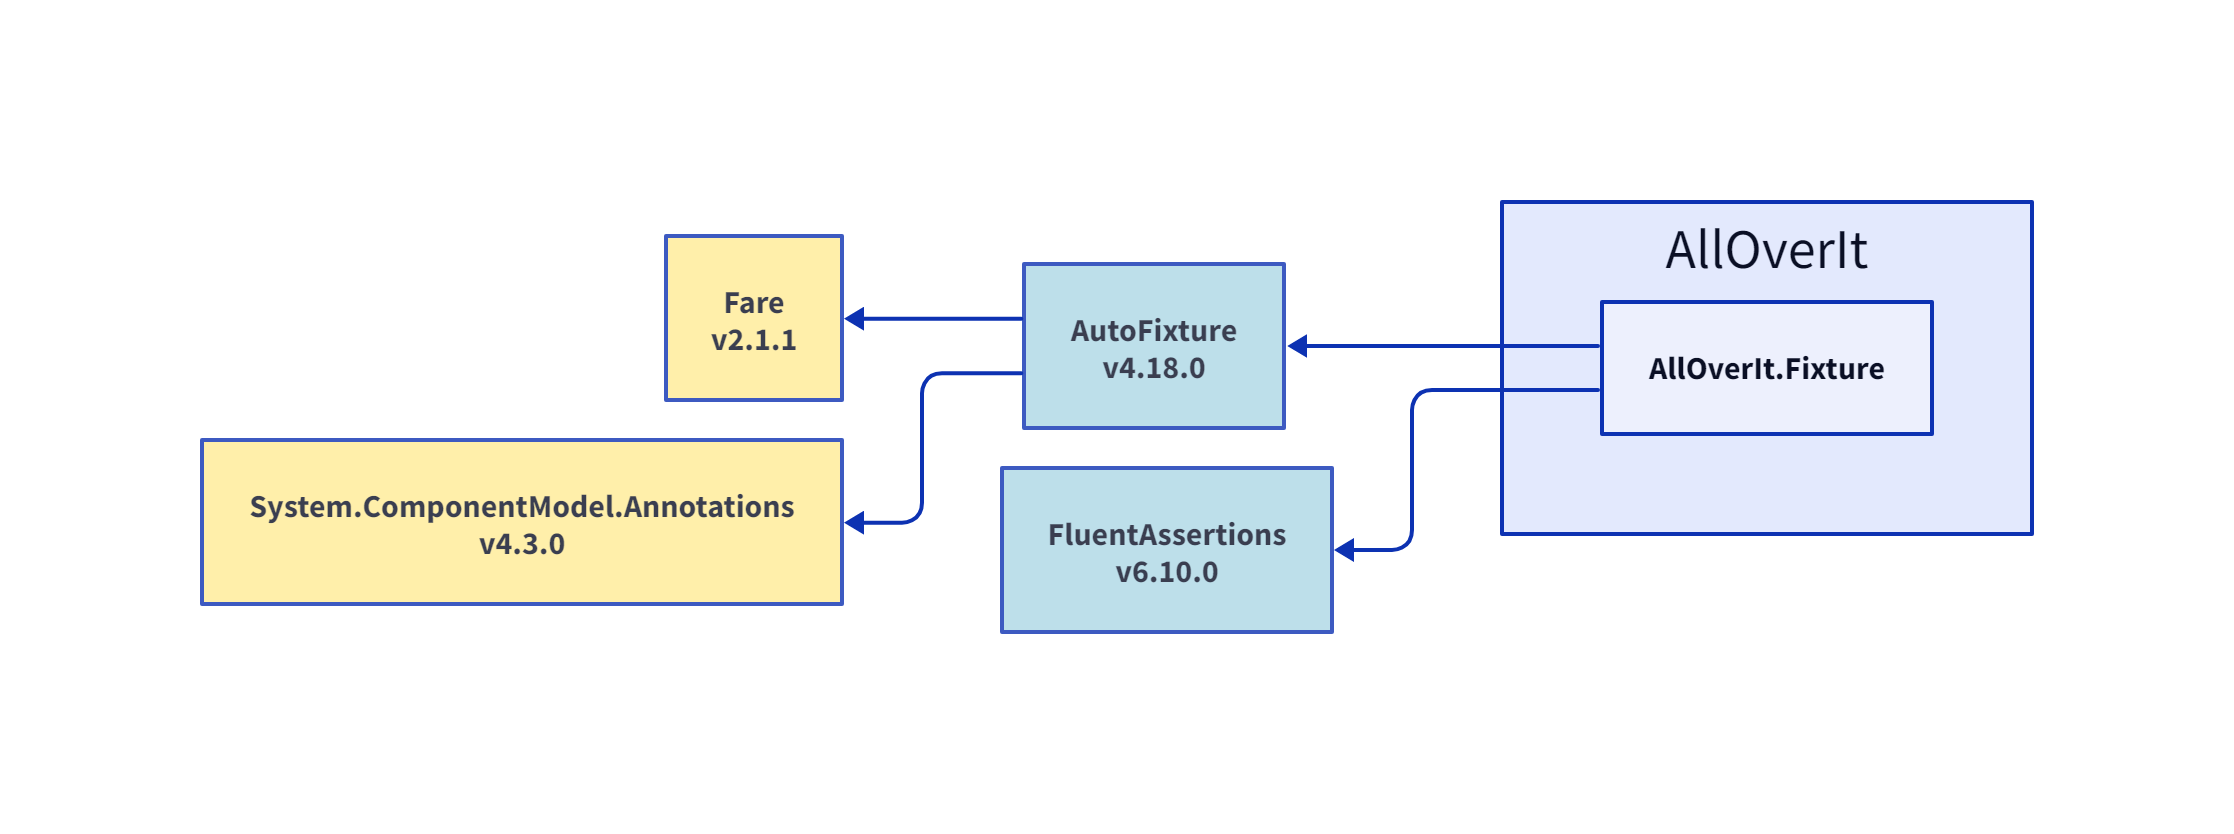
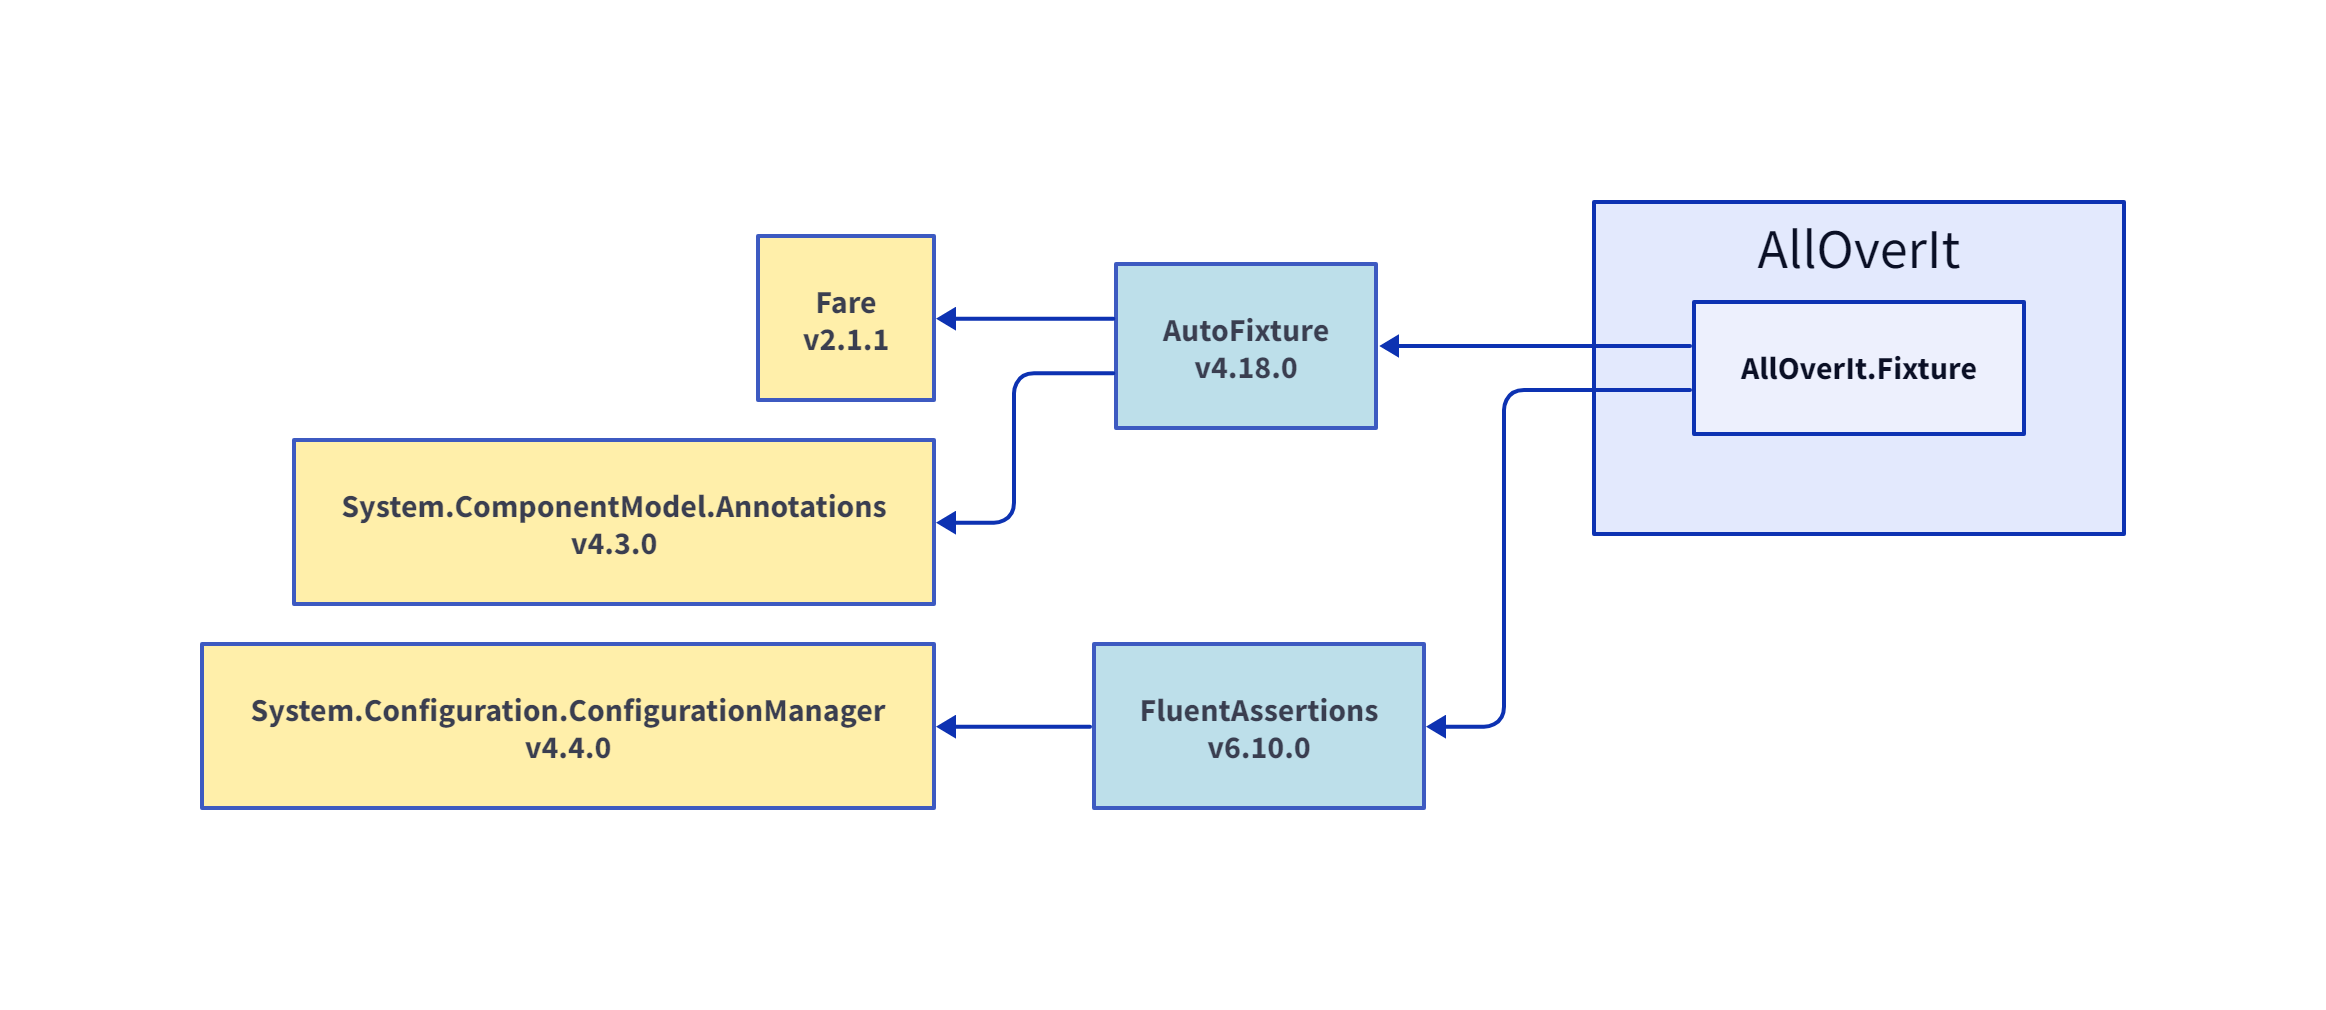
Dependency diagram updates

Changed region(s): [[0.0618, 0.1871, 0.9266, 0.8106]]

diff --git a/Utils/AllOverItDependencyDiagram/Parser/NugetPackageReferencesResolver.cs b/Utils/AllOverItDependencyDiagram/Parser/NugetPackageReferencesResolver.cs
@@ -1,4 +1,5 @@
-using AllOverIt.Extensions;
+using AllOverIt.Assertion;
+using AllOverIt.Extensions;
 using Flurl.Http;
 using System;
 using System.Collections.Generic;
@@ -10,6 +11,16 @@ namespace AllOverItDependencyDiagram.Parser
 {
     internal sealed class NugetPackageReferencesResolver
     {
+        public static readonly string[] TargetFrameworkOrderPreference = new[]
+        {
+            "net7.0",
+            "net6.0",
+            "net5.0",
+            ".netcoreapp3.1",
+            ".netstandard2.1",
+            ".netstandard2.0"
+        };
+
         private readonly IDictionary<(string, string), IEnumerable<PackageReference>> _nugetCache = new Dictionary<(string, string), IEnumerable<PackageReference>>();
         private readonly int _maxDepth;
 
@@ -18,12 +29,12 @@ namespace AllOverItDependencyDiagram.Parser
             _maxDepth = maxDepth;
         }
 
-        public Task<IReadOnlyCollection<PackageReference>> GetPackageReferences(string packageName, string packageVersion)
+        public Task<IReadOnlyCollection<PackageReference>> GetPackageReferences(string packageName, string packageVersion, string targetFramework)
         {
-            return GetPackageReferencesRecursively(packageName, packageVersion, 1);
+            return GetPackageReferencesRecursively(packageName, packageVersion, 1, targetFramework);
         }
 
-        private async Task<IReadOnlyCollection<PackageReference>> GetPackageReferencesRecursively(string packageName, string packageVersion, int depth)
+        private async Task<IReadOnlyCollection<PackageReference>> GetPackageReferencesRecursively(string packageName, string packageVersion, int depth, string targetFramework)
         {
             if (depth > _maxDepth)
             {
@@ -57,18 +68,20 @@ namespace AllOverItDependencyDiagram.Parser
 
                 if (dependenciesByFramework.Any())
                 {
+                    var useTarget = UseTargetFramework(dependenciesByFramework.Keys);
+
+                    var dependencies = dependenciesByFramework
+                        .Single(kvp => useTarget.Equals(kvp.Key, StringComparison.OrdinalIgnoreCase))
+                        .Value;
+
                     var packageReferencesList = new List<PackageReference>();
 
-                    // =====
-                    // take the last for now - until everything is actually grouped (or constrained) by the target framework
-                    // =====
-
-                    foreach (var dependency in dependenciesByFramework.Last().Value)
+                    foreach (var dependency in dependencies)
                     {
                         var dependencyName = dependency.Id;
                         var dependencyVersion = GetAssumedVersion(dependency.Version);
 
-                        var transitiveReferences = await GetPackageReferencesRecursively(dependencyName, dependencyVersion, depth + 1);
+                        var transitiveReferences = await GetPackageReferencesRecursively(dependencyName, dependencyVersion, depth + 1, targetFramework);
 
                         var packageReference = new PackageReference(true, depth)
                         {
@@ -98,6 +111,19 @@ namespace AllOverItDependencyDiagram.Parser
             }
 
             return packageVersion;
+        }
+
+        private static string UseTargetFramework(IEnumerable<string> targetFrameworks)
+        {
+            // Processing like this to ensure the list is provided in the order of TargetFrameworks.Descending
+            var availableTargets = targetFrameworks.Select(key => key.ToLowerInvariant());
+            availableTargets = TargetFrameworkOrderPreference.Intersect(availableTargets);
+
+            var useTarget = availableTargets.FirstOrDefault();
+
+            Throw<InvalidOperationException>.WhenNull(useTarget, $"Cannot find usable targetFramework from {string.Join(", ", targetFrameworks)}");
+
+            return useTarget;
         }
     }
 }

diff --git a/Source/AllOverIt/Logging/ColorConsoleLogger.cs b/Source/AllOverIt/Logging/ColorConsoleLogger.cs
@@ -4,9 +4,9 @@ using System.Linq;
 using System.Text;
 using System.Text.RegularExpressions;
 
-namespace AllOverItDependencyDiagram.Logging
+namespace AllOverIt.Logging
 {
-    internal class DependencyGeneratorLogger : IDependencyGeneratorLogger
+    public sealed class ColorConsoleLogger : IColorConsoleLogger
     {
         private const string ForegroundPrefix = "fore";
         private const string BackgroundPrefix = "back";
@@ -34,48 +34,55 @@ namespace AllOverItDependencyDiagram.Logging
 
         private readonly StringBuilder _stringBuilder = new();
 
-        public IDependencyGeneratorLogger WriteFormatted(string formattedText)
+        public IColorConsoleLogger WriteFormatted(string formattedText)
         {
             LogToConsole(formattedText);
 
             return this;
         }
 
-        public IDependencyGeneratorLogger WriteFormattedLine(string formattedText)
+        public IColorConsoleLogger WriteFormattedLine(string formattedText)
         {
             LogToConsole(formattedText);
 
             return WriteLine();
         }
 
-        public IDependencyGeneratorLogger WriteFragment(ConsoleColor foreColor, string text)
+        public IColorConsoleLogger WriteFragment(ConsoleColor foreColor, string text)
         {
             return AddFragment(foreColor, null, text);
         }
 
-        public IDependencyGeneratorLogger WriteFragment(ConsoleColor foreColor, ConsoleColor backColor, string text)
+        public IColorConsoleLogger WriteFragment(ConsoleColor foreColor, ConsoleColor backColor, string text)
         {
             return WriteFragment(foreColor, backColor, text);
         }
 
-        public IDependencyGeneratorLogger WriteLine(ConsoleColor foreColor, string text)
+        public IColorConsoleLogger WriteLine(ConsoleColor foreColor, string text)
         {
             return AddFragment(foreColor, null, text).WriteLine();
         }
 
-        public IDependencyGeneratorLogger WriteLine(ConsoleColor foreColor, ConsoleColor backColor, string text)
+        public IColorConsoleLogger WriteLine(ConsoleColor foreColor, ConsoleColor backColor, string text)
         {
             return WriteFragment(foreColor, backColor, text).WriteLine();
         }
 
-        public IDependencyGeneratorLogger WriteLine()
+        public IColorConsoleLogger Write(string text)
+        {
+            Console.Write(text);
+
+            return this;
+        }
+
+        public IColorConsoleLogger WriteLine()
         {
             Console.WriteLine();
 
             return this;
         }
 
-        private IDependencyGeneratorLogger AddFragment(ConsoleColor? foreColor, ConsoleColor? backColor, string text)
+        private IColorConsoleLogger AddFragment(ConsoleColor? foreColor, ConsoleColor? backColor, string text)
         {
             if (foreColor.HasValue)
             {
@@ -108,7 +115,7 @@ namespace AllOverItDependencyDiagram.Logging
                 var matches = ColorMatchRegex
                     .Matches(message)
                     .Cast<Match>()
-                    .ToList();
+                    .AsReadOnlyCollection();
                 
                 if (!matches.Any())
                 {

diff --git a/Utils/AllOverItDependencyDiagram/Parser/SolutionParser.cs b/Utils/AllOverItDependencyDiagram/Parser/SolutionParser.cs
@@ -118,7 +118,7 @@ namespace AllOverItDependencyDiagram.Parser
                 var items = itemGroup.SelectMany(value => value.Items).ToList();
 
                 var projectReferences = GetProjectReferences(projectFolder, items);
-                var packageReferences = await GetPackageReferencesAsync(items);
+                var packageReferences = await GetPackageReferencesAsync(items, targetFramework);
 
                 var conditionalReferences = new ConditionalReferences
                 {
@@ -147,7 +147,7 @@ namespace AllOverItDependencyDiagram.Parser
                 .ToList();
         }
 
-        private async Task<IReadOnlyCollection<PackageReference>> GetPackageReferencesAsync(IEnumerable<ProjectItemElement> projectItems)
+        private async Task<IReadOnlyCollection<PackageReference>> GetPackageReferencesAsync(IEnumerable<ProjectItemElement> projectItems, string targetFramework)
         {
             var packageReferences = await projectItems
                 .Where(item => item.ItemType.Equals("PackageReference", StringComparison.OrdinalIgnoreCase))
@@ -157,7 +157,7 @@ namespace AllOverItDependencyDiagram.Parser
 
                     var packageVersion = item.Metadata.SingleOrDefault(item => item.Name == "Version")?.Value;
 
-                    var transitivePackages = await _nugetResolver.GetPackageReferences(packageName, packageVersion);
+                    var transitivePackages = await _nugetResolver.GetPackageReferences(packageName, packageVersion, targetFramework);
 
                     return new PackageReference
                     {

diff --git a/Utils/AllOverItDependencyDiagram/Generator/ProjectDependencyGenerator.cs b/Utils/AllOverItDependencyDiagram/Generator/ProjectDependencyGenerator.cs
@@ -2,7 +2,7 @@
 using AllOverIt.Extensions;
 using AllOverIt.Process;
 using AllOverIt.Process.Extensions;
-using AllOverItDependencyDiagram.Logging;
+using AllOverIt.Logging;
 using AllOverItDependencyDiagram.Parser;
 using System;
 using System.Collections.Generic;
@@ -14,15 +14,15 @@ using System.Threading.Tasks;
 
 namespace AllOverItDependencyDiagram.Generator
 {
-    internal sealed class D2DependencyGenerator
+    public sealed class ProjectDependencyGenerator
     {
-        private readonly D2DependencyGeneratorOptions _options;
-        private readonly IDependencyGeneratorLogger _logger;
+        private readonly ProjectDependencyGeneratorOptions _options;
+        private readonly IColorConsoleLogger _logger;
 
         private string _projectGroupName;
         private string _projectGroupPrefix;
 
-        public D2DependencyGenerator(D2DependencyGeneratorOptions options, IDependencyGeneratorLogger logger)
+        public ProjectDependencyGenerator(ProjectDependencyGeneratorOptions options, IColorConsoleLogger logger)
         {
             _options = options.WhenNotNull();
             _logger = logger.WhenNotNull();
@@ -313,7 +313,7 @@ namespace AllOverItDependencyDiagram.Generator
             return d2FilePath;
         }
 
-        private async Task ExportD2ImageFileAsync(string d2FileName, D2ImageFormat format)
+        private async Task ExportD2ImageFileAsync(string d2FileName, DiagramImageFormat format)
         {
             var imageFileName = Path.ChangeExtension(d2FileName, $"{format}").ToLowerInvariant();
 

diff --git a/Utils/AllOverItDependencyDiagram/Program.cs b/Utils/AllOverItDependencyDiagram/Program.cs
@@ -1,6 +1,6 @@
 using AllOverIt.Io;
+using AllOverIt.Logging;
 using AllOverItDependencyDiagram.Generator;
-using AllOverItDependencyDiagram.Logging;
 using System;
 using System.IO;
 using System.Reflection;
@@ -18,13 +18,16 @@ namespace AllOverItDependencyDiagram
             var solutionPath = Path.Combine(allOverItRoot, "AllOverIt.sln");
             var projectsRootPath = Path.Combine(allOverItRoot, "Source");
 
-            var options = new D2DependencyGeneratorOptions
+            var options = new ProjectDependencyGeneratorOptions
             {
                 DiagramExportPath = Path.Combine(allOverItRoot, @"Docs\Dependencies")
             };
 
-            var logger = new DependencyGeneratorLogger();
-            var generator = new D2DependencyGenerator(options, logger);
+            // Uncomment this line to generate the D2 files but not the images
+            // options.ImageFormats.Clear();
+
+            var logger = new ColorConsoleLogger();
+            var generator = new ProjectDependencyGenerator(options, logger);
 
             await generator.CreateDiagramsAsync(solutionPath, projectsRootPath, "net7.0");
 

diff --git a/Utils/AllOverItDependencyDiagram/Generator/ProjectDependencyGeneratorOptions.cs b/Utils/AllOverItDependencyDiagram/Generator/ProjectDependencyGeneratorOptions.cs
@@ -2,13 +2,18 @@
 
 namespace AllOverItDependencyDiagram.Generator
 {
-    public sealed class D2DependencyGeneratorOptions
+    public sealed class ProjectDependencyGeneratorOptions
     {
         public int IndividualProjectTransitiveDepth { get; set; } = 1;
+
         public int AllProjectsTransitiveDepth { get; set; } = 0;
+
         public string PackageStyleFill { get; set; } = "#ADD8E6";
+
         public string TransitiveStyleFill { get; set; } = "#FFEC96";
-        public IList<D2ImageFormat> ImageFormats { get; } = new List<D2ImageFormat> { D2ImageFormat.Svg, D2ImageFormat.Png };
+
+        public IList<DiagramImageFormat> ImageFormats { get; } = new List<DiagramImageFormat> { DiagramImageFormat.Svg, DiagramImageFormat.Png };
+
         public string DiagramExportPath { get; set; }
     }
 }

diff --git a/Source/AllOverIt/Logging/IColorConsoleLogger.cs b/Source/AllOverIt/Logging/IColorConsoleLogger.cs
@@ -1,0 +1,16 @@
+using System;
+
+namespace AllOverIt.Logging
+{
+    public interface IColorConsoleLogger
+    {
+        IColorConsoleLogger WriteFormatted(string formattedText);
+        IColorConsoleLogger WriteFormattedLine(string formattedText);
+        IColorConsoleLogger WriteFragment(ConsoleColor foreColor, string text);
+        IColorConsoleLogger WriteFragment(ConsoleColor foreColor, ConsoleColor backColor, string text);
+        IColorConsoleLogger WriteLine(ConsoleColor foreColor, string text);
+        IColorConsoleLogger WriteLine(ConsoleColor foreColor, ConsoleColor backColor, string text);
+        IColorConsoleLogger Write(string text);
+        IColorConsoleLogger WriteLine();
+    }
+}

diff --git a/Source/AllOverIt/GlobalSuppressions.cs b/Source/AllOverIt/GlobalSuppressions.cs
@@ -1,0 +1,8 @@
+// This file is used by Code Analysis to maintain SuppressMessage
+// attributes that are applied to this project.
+// Project-level suppressions either have no target or are given
+// a specific target and scoped to a namespace, type, member, etc.
+
+using System.Diagnostics.CodeAnalysis;
+
+[assembly: SuppressMessage("GeneratedRegex", "SYSLIB1045:Convert to 'GeneratedRegexAttribute'.", Justification = "Not supported on all platforms. Not critical.")]

diff --git a/Utils/AllOverItDependencyDiagram/Generator/DiagramImageFormat.cs b/Utils/AllOverItDependencyDiagram/Generator/DiagramImageFormat.cs
@@ -1,6 +1,6 @@
 namespace AllOverItDependencyDiagram.Generator
 {
-    public enum D2ImageFormat
+    public enum DiagramImageFormat
     {
         Svg,
         Png
